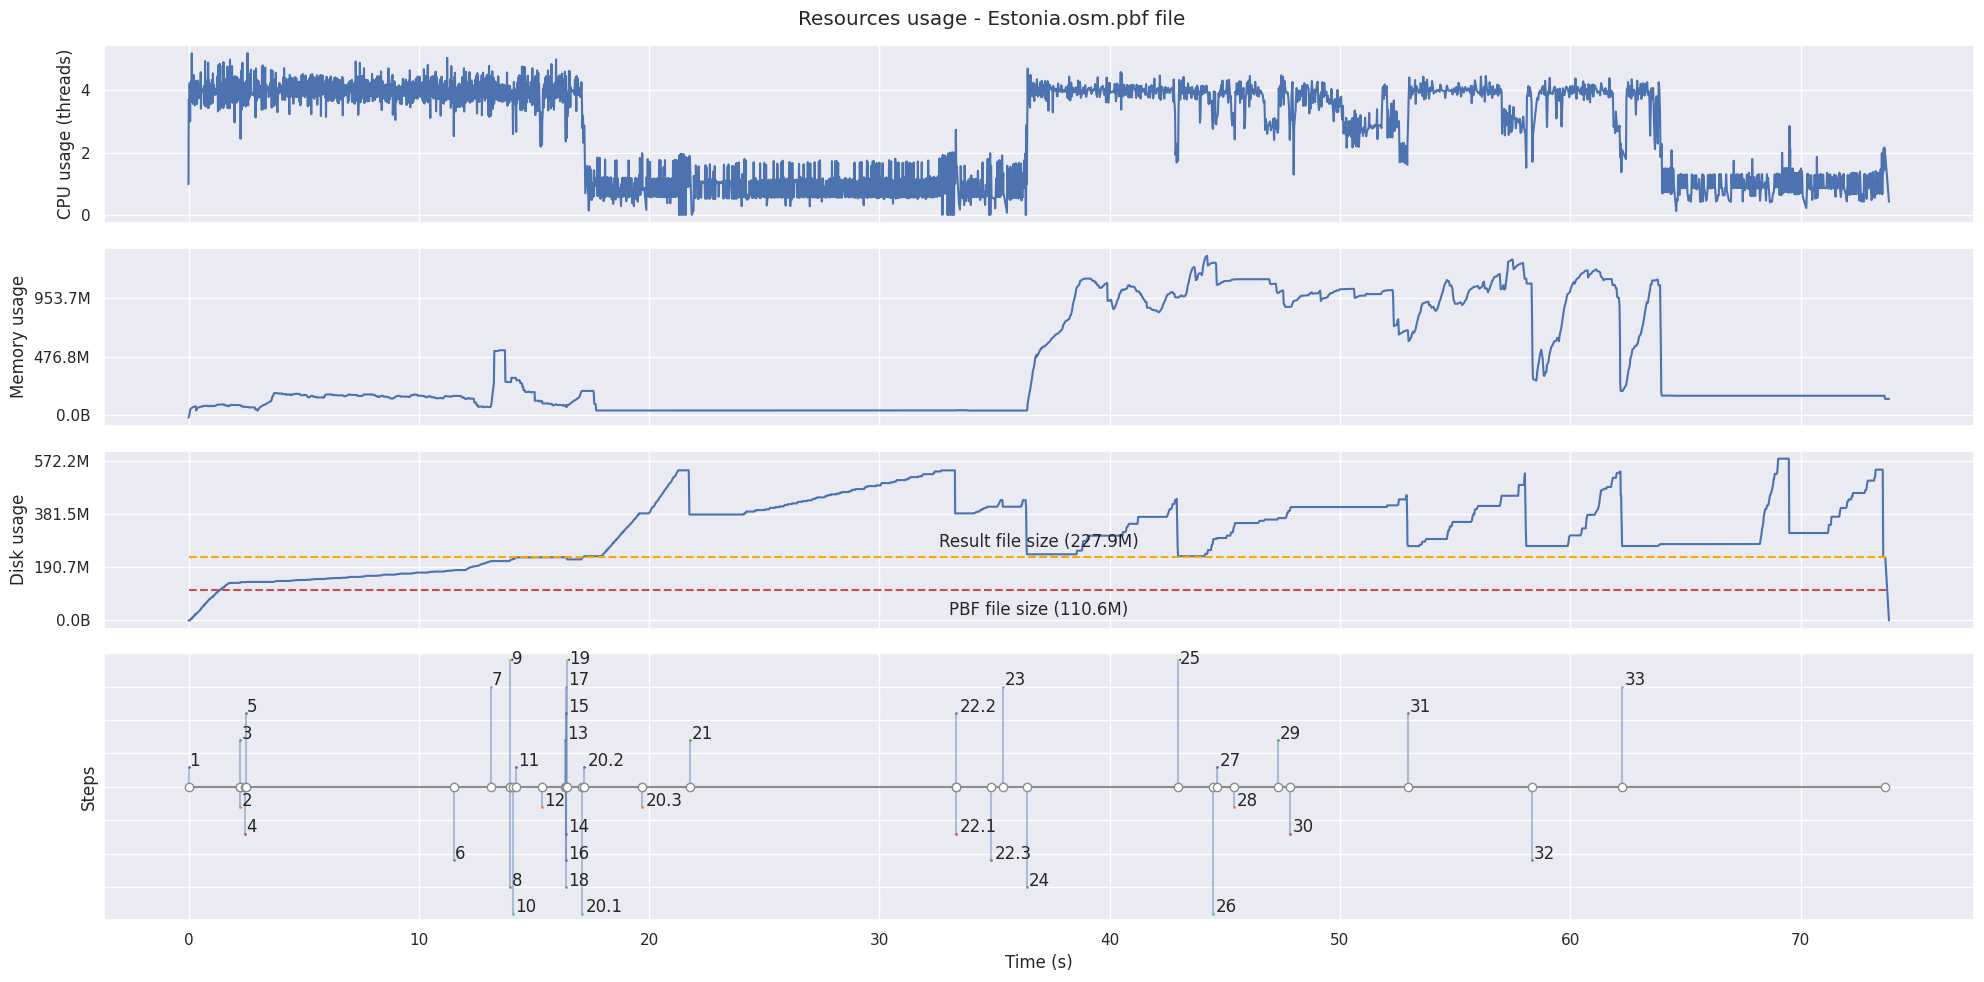
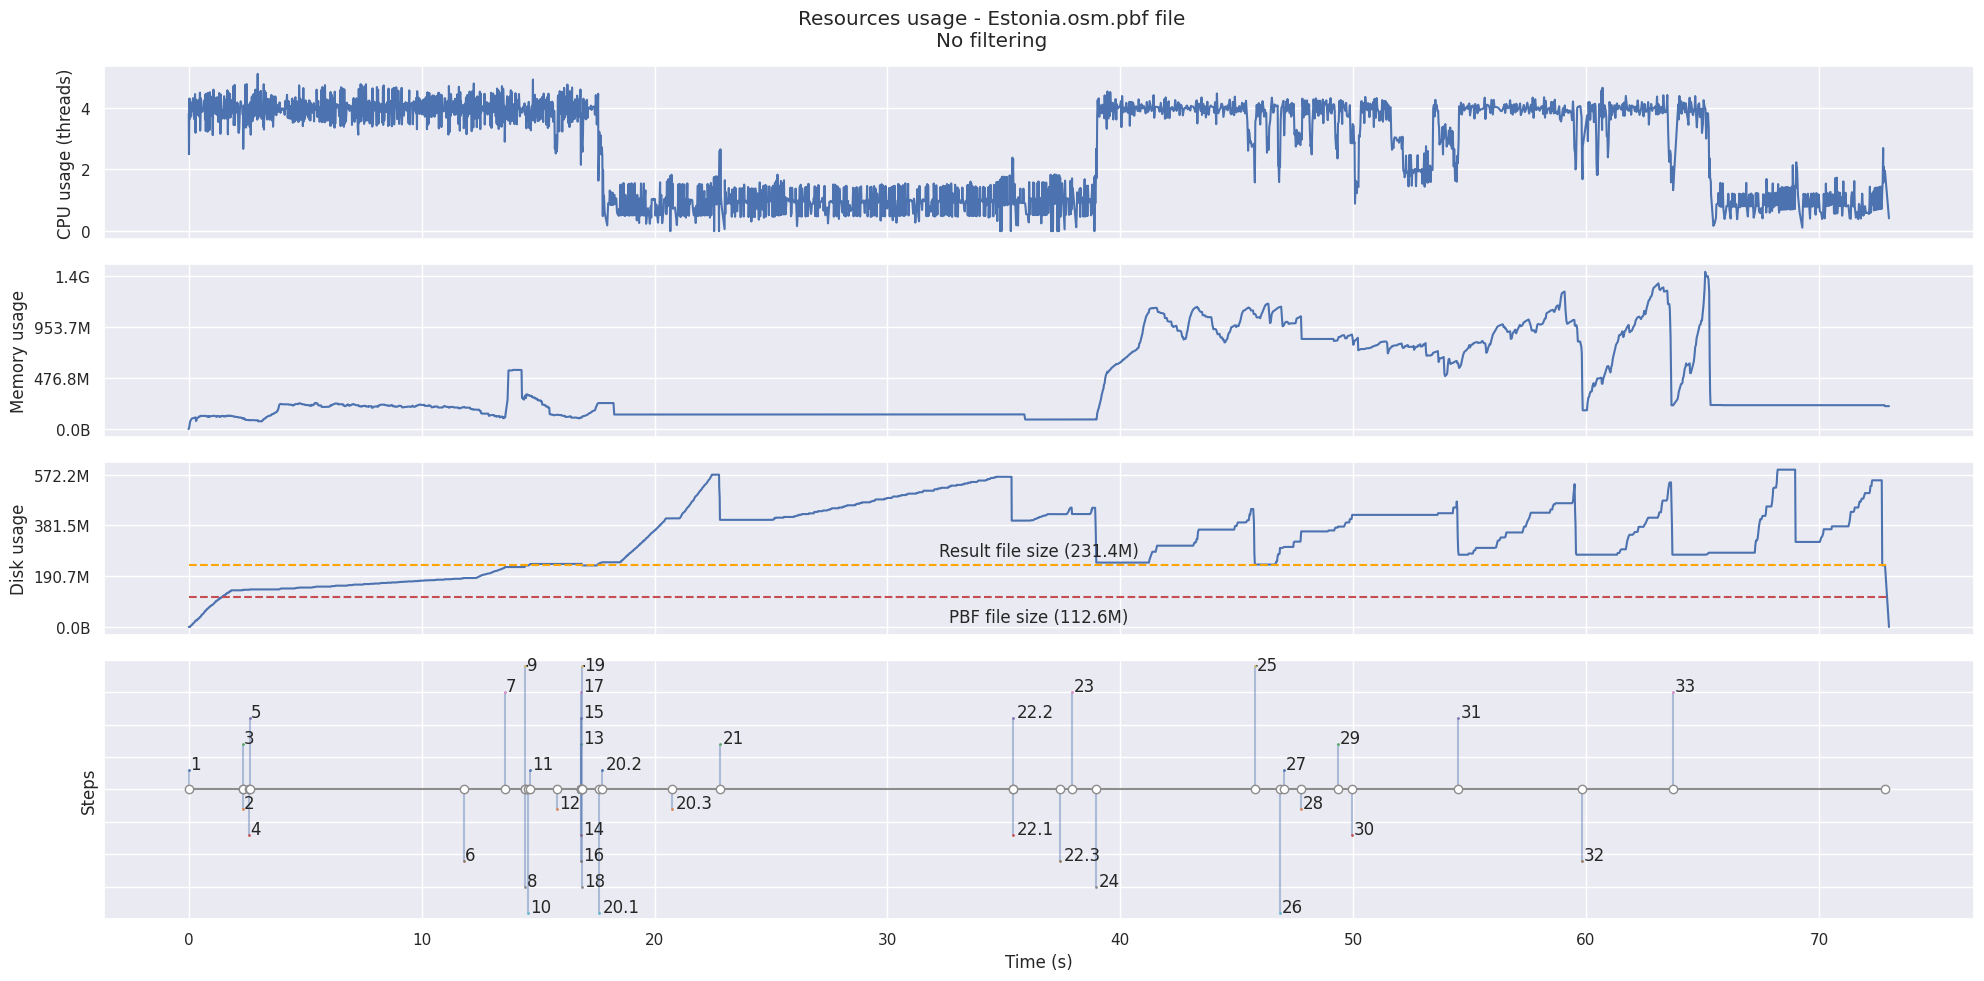
chore: update resources usage plots (#278)
* chore: update resources usage plots

* docs: update readme

---------

diff --git a/README.md b/README.md
@@ -729,27 +729,30 @@ Below you can see the chart of resources usage during operation. Generated on a 
 
 #### Monaco
 
-PBF file size: 525 KB
+PBF file size: <1MB
 
 [Geofabrik link](https://download.geofabrik.de/europe/monaco.html)
 
 ![Monaco PBF file result](https://raw.githubusercontent.com/kraina-ai/quackosm/main/docs/assets/images/monaco_disk_spillage.png)
+![Monaco PBF file result filtered](https://raw.githubusercontent.com/kraina-ai/quackosm/main/docs/assets/images/monaco_filtered_disk_spillage.png)
 
 #### Estonia
 
-PBF file size: 100 MB
+PBF file size: ~100 MB
 
 [Geofabrik link](https://download.geofabrik.de/europe/estonia.html)
 
 ![Estonia PBF file result](https://raw.githubusercontent.com/kraina-ai/quackosm/main/docs/assets/images/estonia_disk_spillage.png)
+![Estonia PBF file result filtered](https://raw.githubusercontent.com/kraina-ai/quackosm/main/docs/assets/images/estonia_filtered_disk_spillage.png)
 
 #### Poland
 
-PBF file size: 1.7 GB
+PBF file size: ~2 GB
 
 [Geofabrik link](https://download.geofabrik.de/europe/poland.html)
 
 ![Poland PBF file result](https://raw.githubusercontent.com/kraina-ai/quackosm/main/docs/assets/images/poland_disk_spillage.png)
+![Poland PBF file result filtered](https://raw.githubusercontent.com/kraina-ai/quackosm/main/docs/assets/images/poland_filtered_disk_spillage.png)
 
 ## License
 
